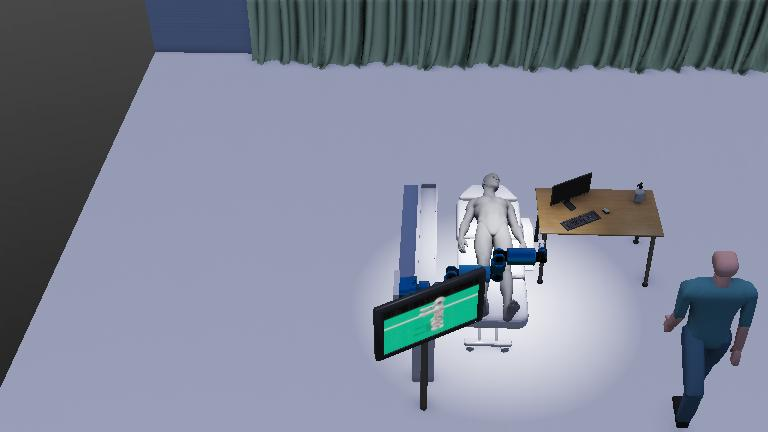
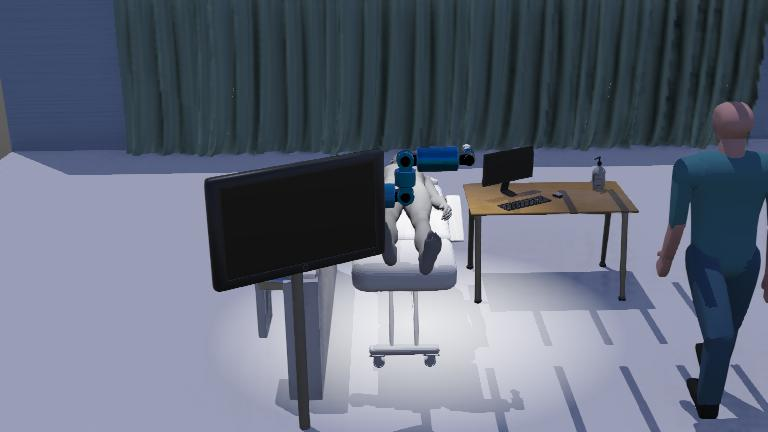
simplified controller logic

diff --git a/controllers/slider_test/slider_test.py b/controllers/slider_test/slider_test.py
@@ -1,15 +1,14 @@
 from controller import Robot
-import math
 
-# --- SETUP ROBOT ---
+# --- 1. CONFIGURAZIONE SISTEMA ---
 robot = Robot()
 timestep = int(robot.getBasicTimeStep())
 
-# --- SETUP RECEIVER ---
+# Setup Ricevitore
 receiver = robot.getDevice('receiver')
 receiver.enable(timestep)
 
-# --- DEFINIZIONE LIMITI MOTORI ---
+# --- 2. PARAMETRI DI SICUREZZA E POSIZIONAMENTO ---
 LIMIT_SLIDER = 0.8
 LIMIT_STD_ROTATION = 3.14159
 LIMIT_PROBE_ROTATION = 6.28318
@@ -26,15 +25,18 @@ MOTOR_LIMITS = {
     "position_rotational_motor_probe": LIMIT_PROBE_ROTATION
 }
 
-# --- FUNZIONE DI ATTESA ---
-def wait(seconds):
-    start_time = robot.getTime()
-    while robot.step(timestep) != -1:
-        if robot.getTime() - start_time > seconds:
-            break
+# Ready Position
+READY_POSITIONS = {
+    "piston_motor": 0.05,
+    "rotational_motor_elbow": 0.0,
+    "rotational_motor_box": 0.0,
+    "rotational_motor_arm": 0.2, 
+    "rotational_motor_double_gear": 1.6,
+    "rotational_motor_upper_arm": 0.0,
+    "position_rotational_motor_probe": 1.5,
+}
 
-# --- INIZIALIZZAZIONE MOTORI ---
-motors = {}
+# Nomi dei device
 motor_names = [
     "slider_piston_base",            
     "piston_motor",                  
@@ -44,123 +46,62 @@ motor_names = [
     "rotational_motor_double_gear", 
     "rotational_motor_upper_arm",    
     "position_rotational_motor_probe", 
-    "hingejoint"                     
 ]
 
-print("--- Inizializzazione Motori ---")
+motors = {}
+
+# --- 3. INIZIALIZZAZIONE MOTORI ---
+print(">>> Inizializzazione Robot...")
+
 for name in motor_names:
     motor = robot.getDevice(name)
     if motor:
+        # Imposta controllo in posizione (default Webots)
         motor.setPosition(float('inf')) 
         motor.setVelocity(1.0) 
-        motor.setPosition(0.0)
+        
+        # Vai alla posizione di Ready definita nel dizionario
+        target_pos = READY_POSITIONS.get(name, 0.0)
+        motor.setPosition(target_pos)
+        
         motors[name] = motor
+        print(f" - Motore {name} -> Ready: {target_pos}")
     else:
         print(f"ATTENZIONE: Motore {name} non trovato.")
 
 slider = motors.get("slider_piston_base")
 
-# --- SEQUENZA DI TEST DIAGNOSTICO ---
-def run_startup_test():
-    print("\n>>> AVVIO TEST DIAGNOSTICO CON LIMITI DEFINITI <<<")
-    
-    if "slider_piston_base" in motors:
-        print(f"Test: Slider Base (Limit: +/- {LIMIT_SLIDER})")
-        test_val = LIMIT_SLIDER * 0.5 
-        motors["slider_piston_base"].setPosition(test_val)
-        wait(2.0)
-        motors["slider_piston_base"].setPosition(-test_val)
-        wait(2.0)
-        motors["slider_piston_base"].setPosition(0.0)
-        wait(1.0)
-
-    if "piston_motor" in motors:
-        print("Test: Pistone Verticale (Target: 0.05)")
-        motors["piston_motor"].setPosition(0.05)
-        wait(2.0)
-        motors["piston_motor"].setPosition(0.0)
-        wait(1.0)
-
-    print(f"Test: Rotazione Standard (Target: PI = {LIMIT_STD_ROTATION:.2f})")
-    
-    # 1. Test Gomito (Singolo)
-    if "rotational_motor_elbow" in motors:
-        print(f" -> Muovo rotational_motor_elbow a PI")
-        motors["rotational_motor_elbow"].setPosition(LIMIT_STD_ROTATION)
-        wait(3.0)
-        motors["rotational_motor_elbow"].setPosition(0.0)
-        wait(2.0)
-
-    # 2. Test Braccio + Gruppo Superiore (Sincronizzati)
-    # Qui muoviamo arm, box, gear e upper_arm tutti insieme
-    print(f" -> Muovo rotational_motor_arm a PI (Movimento Gruppo Completo)")
-    
-    group_arm = [
-        "rotational_motor_arm", 
-        "rotational_motor_box", 
-        "rotational_motor_double_gear", 
-        "rotational_motor_upper_arm"
-    ]
-
-    # Andata
-    for name in group_arm:
-        if name in motors:
-            motors[name].setPosition(LIMIT_STD_ROTATION)
-    wait(3.0)
-
-    # Ritorno
-    for name in group_arm:
-        if name in motors:
-            motors[name].setPosition(0.0)
-    wait(2.0)
-
-    if "position_rotational_motor_probe" in motors:
-        print(f"Test: Probe Rotazione Completa (Target: 2PI = {LIMIT_PROBE_ROTATION:.2f})")
-        motors["position_rotational_motor_probe"].setPosition(LIMIT_PROBE_ROTATION)
-        wait(4.0)
-        motors["position_rotational_motor_probe"].setPosition(0.0)
-        wait(2.0)
-
-    print(">>> Reset posizione Home <<<")
-    for name, motor in motors.items():
-        motor.setPosition(0.0)
-    wait(1.0)
-    print(">>> Test completato. Attivazione Receiver. <<<\n")
-
-# --- ESECUZIONE TEST ---
-run_startup_test()
-
-# --- MAIN LOOP (RECEIVER) ---
-print("Controller in ascolto (Modalità Receiver)...")
+# --- 4. LOOP PRINCIPALE DI CONTROLLO ---
+print(">>> Robot pronto. In attesa di coordinate...")
 
 while robot.step(timestep) != -1:
+    
+    # Controlla se ci sono messaggi dalla Visione
     if receiver.getQueueLength() > 0:
         message = receiver.getString()
         receiver.nextPacket()
         
         try:
+            # Parsing del messaggio: "NOME, X, Y, Z"
             parts = message.split(',')
             if len(parts) >= 4:
                 target_name = parts[0]
-                x_cam = float(parts[1])
-                y_cam = float(parts[2]) 
-                z_cam = float(parts[3])
+                # x_cam = float(parts[1]) # Non usata per lo slider
+                y_cam = float(parts[2])   # Coordinata Longitudinale (Lungo il lettino)
+                # z_cam = float(parts[3]) # Non usata per lo slider
 
                 raw_target = y_cam 
                 
-                calculated_pos = max(-1.0, min(1.0, raw_target)) * 1.2
-                
-                # APPLICAZIONE LIMITE DI SICUREZZA
+                scaled_target = raw_target * 1.2 
+
                 limit = MOTOR_LIMITS.get("slider_piston_base", 0.8)
-                
-                final_target = max(-limit, min(limit, calculated_pos))
+                final_target = max(-limit, min(limit, scaled_target))
 
                 if slider:
                     slider.setPosition(final_target)
-                    print(f"RX: {target_name} | Y: {y_cam:.2f} -> Slider: {final_target:.2f} (Max: {limit})")
+                    print(f"Target: {target_name} | Y_Cam: {y_cam:.2f} -> Slider: {final_target:.2f}")
             
-            else:
-                print(f"Msg invalido: {message}")
-
+        except ValueError:
+            pass
         except Exception as e:
-            print(f"Errore: {e}")
+            print(f"Errore generico: {e}")
